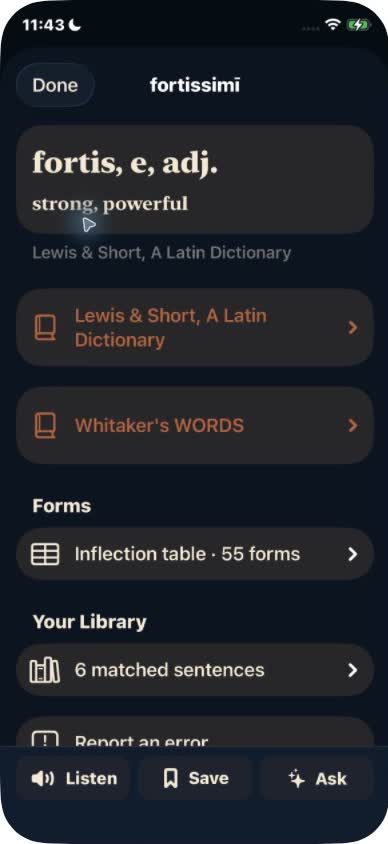
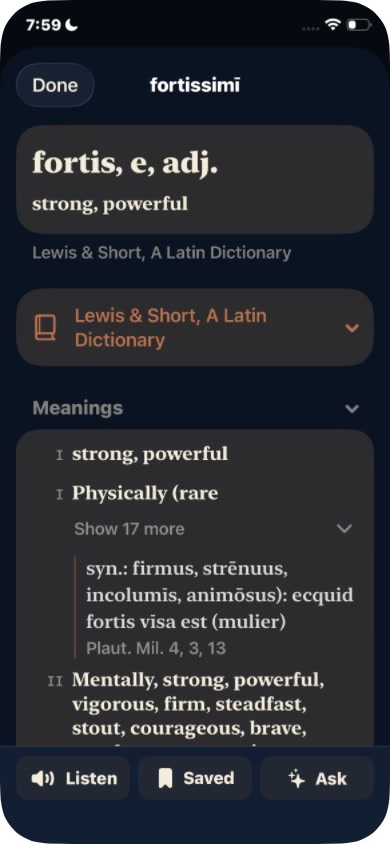
Use natural mobile copy and expanded dictionary screenshot

diff --git a/mobile-story.js b/mobile-story.js
@@ -5,15 +5,15 @@
   const base = '/viva-antiqua/';
   let dispose;
   const scenes = [
-    {id:'opening',kind:'opening',label:'VIVA ANTIQUA',title:'The ancient world.<br><em>In your hands.</em>',text:'Read. Listen. Understand.',image:'caesar-reader-poster.jpg',video:'caesar-reader-iphone.mp4',button:'Watch the reader'},
+    {id:'opening',kind:'opening',label:'VIVA ANTIQUA',title:'The ancient world<br><em>in your hands</em>',text:'Read, listen, and understand',image:'caesar-reader-poster.jpg',video:'caesar-reader-iphone.mp4',button:'Watch the reader'},
     {id:'learning',kind:'learning',steps:[
-      {label:'01 / READ',title:'Every word.<br><em>Within reach.</em>',text:'Tap a word. Discover its meaning.',image:'dictionary-iphone.jpg',button:'Explore the screen',focus:'dictionary'},
-      {label:'02 / UNDERSTAND',title:'Ask the text.<br><em>Go deeper.</em>',text:'Grammar and meaning, with your AI tutor.',image:'ask-balbus-iphone.jpg',button:'Explore the screen',focus:'balbus'},
-      {label:'03 / REMEMBER',title:'Make it<br><em>stay with you.</em>',text:'Your words. Your passages. Ready to review.',image:'review-card-iphone.png',button:'Explore the screen',focus:'review'}]},
-    {id:'verse',kind:'verse',label:'LATIN · RECONSTRUCTED PRONUNCIATION',title:'Feel the<br><em>rhythm.</em>',text:'Hear the Aeneid in its original metre.',image:'aeneid-verse-poster.jpg',video:'aeneid-verse-iphone.mp4',button:'Listen to the Aeneid'},
-    {id:'community',kind:'community',label:'A LANGUAGE TO SHARE',title:'Find your<br><em>people.</em>',text:'Shared stories. Role-play. Latin pen pals.',image:'play-iphone.jpg',button:'Explore the screen'},
-    {id:'homer',kind:'homer',label:'THE ILIAD & THE ODYSSEY',title:'Before books,<br><em>there was song.</em>',text:'48 books. Ancient Greek. A voice for every verse.',image:'odyssey-song-poster.jpg?v=2',video:'odyssey-song-iphone.mp4?v=2',button:'Listen to Homer'},
-    {id:'speech',kind:'speech',label:'ATHENS · PERICLES',title:'History.<br><em>Speaking again.</em>',text:'An ancient speech, brought to life in its own language.',image:'pericles-poster.jpg',video:'pericles-speech-mobile.mp4?v=2',button:'Watch the speech'}
+      {label:'01 / READ',title:'Every word<br><em>within reach</em>',text:'Tap a word and discover its meaning',image:'dictionary-iphone.jpg?v=2',button:'Explore the screen',focus:'dictionary'},
+      {label:'02 / UNDERSTAND',title:'Ask the text<br><em>and go deeper</em>',text:'Explore grammar and meaning with your AI tutor',image:'ask-balbus-iphone.jpg',button:'Explore the screen',focus:'balbus'},
+      {label:'03 / REMEMBER',title:'Make it<br><em>stay with you</em>',text:'Review your saved words and passages',image:'review-card-iphone.png',button:'Explore the screen',focus:'review'}]},
+    {id:'verse',kind:'verse',label:'LATIN · RECONSTRUCTED PRONUNCIATION',title:'Feel the<br><em>rhythm</em>',text:'Hear the Aeneid in its original metre',image:'aeneid-verse-poster.jpg',video:'aeneid-verse-iphone.mp4',button:'Listen to the Aeneid'},
+    {id:'community',kind:'community',label:'A LANGUAGE TO SHARE',title:'Find your<br><em>people</em>',text:'Write stories and role-play with fellow learners',image:'play-iphone.jpg',button:'Explore the screen'},
+    {id:'homer',kind:'homer',label:'THE ILIAD & THE ODYSSEY',title:'Before books<br><em>there was song</em>',text:'All 48 books sung in Ancient Greek',image:'odyssey-song-poster.jpg?v=2',video:'odyssey-song-iphone.mp4?v=2',button:'Listen to Homer'},
+    {id:'speech',kind:'speech',label:'ATHENS · PERICLES',title:'History<br><em>speaking again</em>',text:'An ancient speech brought to life in its own language',image:'pericles-poster.jpg',video:'pericles-speech-mobile.mp4?v=2',button:'Watch the speech'}
   ];
   function setup() {
     dispose?.(); dispose=null;
@@ -31,7 +31,7 @@
         <div class="cinema-count" aria-hidden="true">${data.steps?`${i+1} / 3`:'SCROLL TO EXPLORE ↓'}</div></article>`).join('')}<div class="cinema-progress" aria-hidden="true"><span></span></div></div>`;
       root.append(track);tracks.push({track,shots:[...track.querySelectorAll('.cinema-shot')]});
     }
-    const end=document.createElement('footer');end.className='cinema-end';end.innerHTML=`<p class="cinema-label">THE PAST IS JUST THE BEGINNING</p><h2>Vīva Antīqua</h2><p>Latin & Ancient Greek.<br>Preparing for App Store release.</p><div><a href="${base}support/">Support</a><a href="${base}privacy/">Privacy</a><a href="${base}terms/">Terms</a></div>`;root.append(end);
+    const end=document.createElement('footer');end.className='cinema-end';end.innerHTML=`<p class="cinema-label">THE PAST IS JUST THE BEGINNING</p><h2>Vīva Antīqua</h2><p>Latin & Ancient Greek<br>Preparing for App Store release</p><div><a href="${base}support/">Support</a><a href="${base}privacy/">Privacy</a><a href="${base}terms/">Terms</a></div>`;root.append(end);
     const dialog=document.createElement('dialog');dialog.className='cinema-dialog';dialog.setAttribute('aria-label','Demo viewer');dialog.innerHTML='<button class="cinema-close" type="button" aria-label="Close demo">×</button><div class="cinema-player"></div>';root.append(dialog);
     document.body.append(root);document.documentElement.classList.add('cinema-enabled');
     let frame=0,returnFocus;

diff --git a/index.html b/index.html
@@ -16,7 +16,7 @@
 <label><input type="radio" name="learning-feature" value="balbus"><span>Ask Balbus</span></label>
 <label><input type="radio" name="learning-feature" value="review"><span>Review</span></label>
 </fieldset>
-<article class="learning-feature" data-feature="dictionary"><div><h3>Every word in context.</h3><p>Look up meanings, word forms, and examples of usage.</p></div><figure class="book-screen"><a href="/viva-antiqua/assets/dictionary-iphone.jpg" aria-label="Enlarge Dictionary app screen"><img src="/viva-antiqua/assets/dictionary-iphone.jpg" width="388" height="844" loading="lazy" alt="The reader dictionary shows fortis, its meaning, inflection table, and matching passages."></a></figure></article>
+<article class="learning-feature" data-feature="dictionary"><div><h3>Every word in context.</h3><p>Look up meanings, word forms, and examples of usage.</p></div><figure class="book-screen"><a href="/viva-antiqua/assets/dictionary-iphone.jpg?v=2" aria-label="Enlarge Dictionary app screen"><img src="/viva-antiqua/assets/dictionary-iphone.jpg?v=2" width="388" height="844" loading="lazy" alt="The reader dictionary shows fortis, its meaning, inflection table, and matching passages."></a></figure></article>
 <article class="learning-feature" data-feature="balbus"><div><h3>Understand the passage.</h3><p>Explore grammar and meaning with an AI tutor in a single tap.</p></div><figure class="book-screen"><a href="/viva-antiqua/assets/ask-balbus-iphone.jpg" aria-label="Enlarge Ask Balbus app screen"><img src="/viva-antiqua/assets/ask-balbus-iphone.jpg" width="388" height="844" loading="lazy" alt="Ask Balbus explains Caesar’s use of fortissimi in Latin and English."></a></figure></article>
 <article class="learning-feature" data-feature="review"><div><h3>Remember what you read.</h3><p>Review vocabulary and passages saved from your reading, with cards scheduled for you.</p></div><figure class="book-screen"><a href="/viva-antiqua/assets/review-card-iphone.png" aria-label="Enlarge Review app screen"><img src="/viva-antiqua/assets/review-card-iphone.png" width="776" height="1688" loading="lazy" alt="The full Viva Antiqua review screen showing a Greek vocabulary card and its original sentence."></a></figure></article>
 </div>
@@ -27,5 +27,5 @@
 <section class="section film" id="watch" aria-labelledby="film-title"><div><h2 id="film-title">Bring antiquity<br>to life.</h2><p class="section-intro">Recreate scenes from history in their original languages with our voice models.</p></div><figure><video controls playsinline preload="none" controlslist="nodownload" poster="/viva-antiqua/assets/pericles-poster.jpg" width="720" height="1280" aria-label="Pericles speech: AI-generated reconstruction with Ancient Greek audio and bilingual subtitles"><source src="/viva-antiqua/media/pericles-speech.mp4" type="video/mp4">Your browser does not support embedded video.</video></figure></section>
 <div class="release"><img src="/viva-antiqua/assets/app-logo-classic.png" width="58" height="58" alt=""><div><strong>Viva Antiqua</strong><p>Latin &amp; Ancient Greek in one place.</p></div><span>Preparing for App Store release</span></div>
 </main><footer><div class="footer-top"><a class="brand" href="/viva-antiqua/">Viva Antiqua</a><div class="links"><a href="/viva-antiqua/privacy/">Privacy</a><a href="/viva-antiqua/terms/">Terms</a><a href="/viva-antiqua/support/">Support</a></div></div><small>Pre-release preview · Policies and public contact details are being finalized.</small></footer>
-<script src="/viva-antiqua/mobile-story.js?v=8" defer></script>
+<script src="/viva-antiqua/mobile-story.js?v=9" defer></script>
 </body></html>
